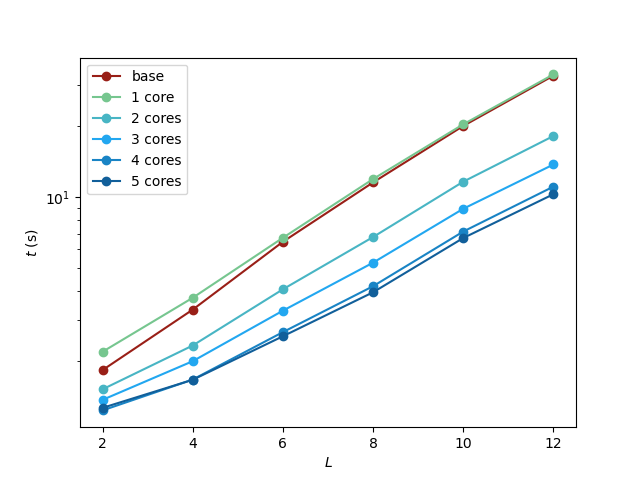
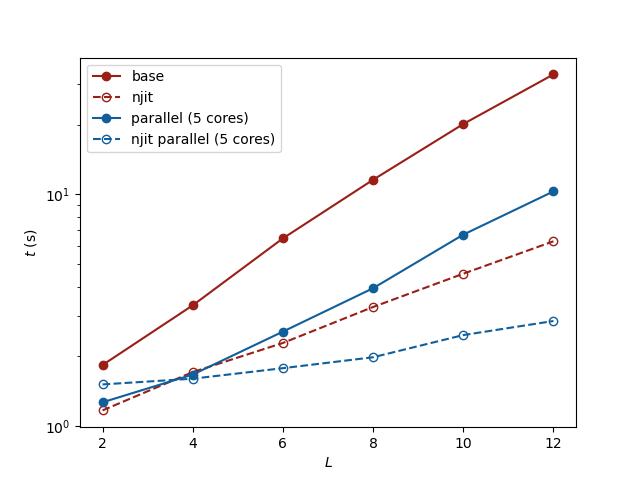
Updated testing documentation

diff --git a/testing/accuracy_analysis.py b/testing/accuracy_analysis.py
@@ -112,11 +112,11 @@ plt.savefig("plots/fig09.png")
 # Showing accuracy differences per core njit parallel
 plt.figure()
 plotAccuracy("njit","njit",0,color1,"--")
-plotAccuracy("njitparallel","1 core",1,color21,"-")
-plotAccuracy("njitparallel","2 cores",2,color22,"-")
-plotAccuracy("njitparallel","3 cores",3,color23,"-")
-plotAccuracy("njitparallel","4 cores",4,color24,"-")
-plotAccuracy("njitparallel","5 cores",5,color25,"-")
+plotAccuracy("njitparallel","1 core",1,color21,"--")
+plotAccuracy("njitparallel","2 cores",2,color22,"--")
+plotAccuracy("njitparallel","3 cores",3,color23,"--")
+plotAccuracy("njitparallel","4 cores",4,color24,"--")
+plotAccuracy("njitparallel","5 cores",5,color25,"--")
 plt.ylabel("relative error")
 plt.xlabel("$L$")
 plt.ylim(0,0.025)

diff --git a/testing/time_analysis.py b/testing/time_analysis.py
@@ -127,7 +127,7 @@ plt.legend()
 plt.xlabel("$L$")
 plt.ylabel("$t$ (s)")
 
-plt.savefig("plots/fig02.png")
+plt.savefig("plots/fig03.png")
 
 
 Lvalues = [2,4,6,8,10,12]
@@ -161,7 +161,7 @@ plt.legend()
 plt.xlabel("$L$")
 plt.ylabel("$t$ (s)")
 
-plt.savefig("plots/fig03.png")
+plt.savefig("plots/fig04.png")
 #plt.subplot(1,3,2)
 
 plt.figure()
@@ -177,7 +177,7 @@ plt.legend()
 plt.xlabel("$L$")
 plt.ylabel("$t$ (s)")
 
-plt.savefig("plots/fig04.png")
+plt.savefig("plots/fig05.png")
 
 
 plt.figure()
@@ -193,4 +193,4 @@ plt.legend()
 plt.xlabel("$L$")
 plt.ylabel("$t$ (s)")
 
-plt.savefig("plots/fig05.png")
+plt.savefig("plots/fig06.png")

diff --git a/testdocumentation.md b/testdocumentation.md
@@ -1,0 +1,73 @@
+# Testing Documentation
+In this file we detail the simulation implementation and the results of the optimization testing.
+
+## Simulation parameters
+The following simulation parameters were used in testing
+
+| Parameter | Value/s |
+| --- | --- | 
+| lattice size | 2,4,6,8,10,12,16,20,24,28,32 | 
+| start t | 2.00 |
+| end t | 2.5 | 
+| number of t | 30 |
+| ss points | 2000 |
+
+3 trials of the different parameter combinations were used and the results were averaged over the 3 trials.
+
+## Calculation Time
+
+### Speed boost
+The figure below shows the average calculation time in seconds for each trial of the simulation runs.
+
+![Figure 1](testing/plots/fig01.png)
+
+For larger values of $L$, the Wolff Cluster algorithm takes a longer time to construct clusters especially for low $T$ values. So calculation time is greater for larger lattice sizes.
+
+Overall, the best performance was found when combining both `multiprocessing` parallelism and Numba JIT compilation.
+
+### Overhead effects
+
+Due to the overhead of both optimization, shorter simulations will still be quicker on the base code as shown in the figure below:
+
+![Figure 2](testing/plots/fig04.png)
+
+### Parallelization effects
+As expected, increasing the number of cores used in `multiprocessing` improves the speed of the calculations. This is true for both base parallel code (see Figure below):
+![Figure 3](testing/plots/fig02.png)
+
+and also for the njit parallelization code (see Figure below):
+
+![Figure 3](testing/plots/fig03.png)
+
+We also see the effects of the overheads of parallelization below
+
+![Figure 3](testing/plots/fig05.png)
+
+where the 1 core parallel is slower than the base code. This effect is more pronounced for njitparallel
+
+![Figure 3](testing/plots/fig06.png)
+
+Each core will run the JIT compilation. So increasing the number of cores also increases the overhead for the whole simulation.
+
+## Accuracy
+We estimate the critical temperature produced by the simulation by fitting the specific heat values for different $T$ to a lorenztian function.
+
+$$\text{Fitting Function} = \frac{A}{(T-T_c)^2 + B}$$
+
+The estimated critical temperatures are then compared to the theoretical values for the 2D Ising model ($T_c = 2.26918531421$)
+
+Results show that `multiprocessing` parallelization results are identical to that of the base code, so long as the random number seed is consistent.
+Meaning, the parallelization does not change the results. On the other hand, we have seen variations in the results generated by Numbas JIT compilation (See figure below).
+
+![Figure 3](testing/plots/fig07.png)
+
+This variation can be attributed to Numba [not supporting](https://numba.readthedocs.io/en/stable/developer/autogen_numpy_listing.html?highlight=np%2Brandom) `numpy`'s random number generation scheme (which was used in the simulation). Nevertheless, these variations do not change the accuracy of the resulting $T_c$ calculated.
+
+![Figure 3](testing/plots/fig08.png)
+![Figure 3](testing/plots/fig09.png)
+![Figure 3](testing/plots/fig10.png)
+
+And for large lattice sizes, the error remained below 1%.
+
+
+

diff --git a/README.md b/README.md
@@ -67,4 +67,4 @@ python njitparallel.py
 ---
 
 ### Testing Results
-Testing results showed improvements in calculation time for all optimization schemes with no loss in accuracy. [detailed report](Testing documentation.md)
+Testing results showed improvements in calculation time for all optimization schemes with no loss in accuracy. [detailed report](testdocumentation.md)
